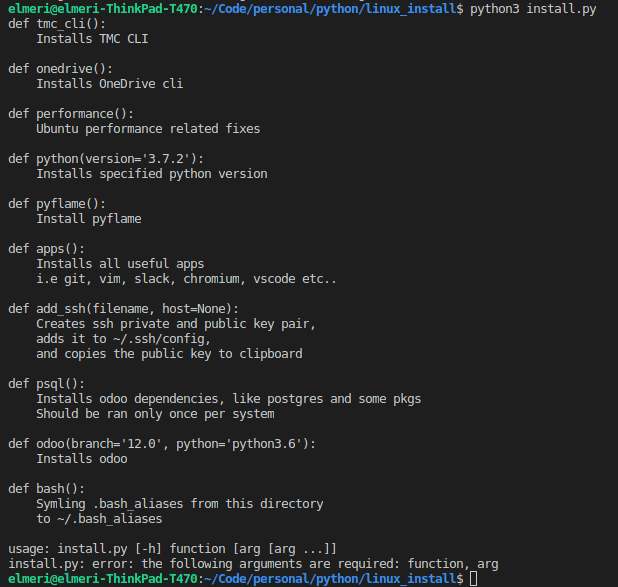
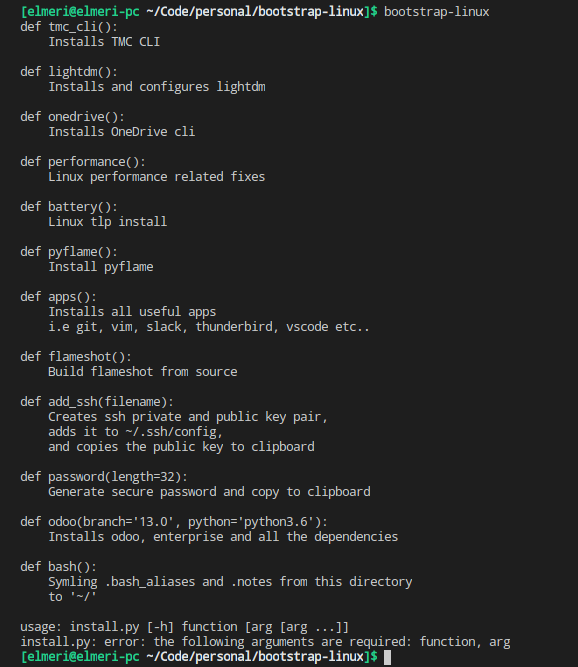
Fixed bash and odoo install

Changed region(s): [[0.0, 0.0, 0.9654, 1.0]]

diff --git a/install.py b/install.py
@@ -195,7 +195,7 @@ def password(length=32):
 def _get_odoo_path(branch='13.0', repo='odoo'):
     return _path(f'~/Code/work/odoo/{branch[:-2]}/{repo}')
 
-def _odoo_venv(branch='13.0', python='python3.6'):
+def _odoo_venv(branch='13.0'):
     '''Creates odoo venv
     '''
     os.makedirs(_path('~/.venv'), exist_ok=True)
@@ -203,13 +203,24 @@ def _odoo_venv(branch='13.0', python='python3.6'):
     odoo_path = _get_odoo_path(branch)
 
     if not os.path.isdir(_path('~/.venv/' + venv_name)):
-        _run([
-            'cd ~/.venv',
-            'python3 -m virtualenv -p {} {}'.format(python, venv_name),
-        ])
+        if float(branch) <= 10.0:
+            _run([
+                'cd ~/.venv',
+                'python2 -m virtualenv -p python2 {}'.format(venv_name),
+            ], dependencies=[
+                'sudo pacman -S --noconfirm python2',
+                'sudo pacman -S --noconfirm python2-virtualenv',
+            ])
+
+        else:
+            _run([
+                'cd ~/.venv',
+                'python3 -m venv {}'.format(venv_name),
+            ])
+
     _run([
-        '/home/elmeri/.venv/{}/bin/pip install -r {}/requirements.txt'.format(
-            venv_name, odoo_path),
+        'sed "/psycopg2/d" {}/requirements.txt | /home/elmeri/.venv/{}/bin/pip install -r /dev/stdin psycopg2'.format(
+            odoo_path, venv_name),
     ], dependencies=_lazyfunction(_odoo_deps, branch=branch))
 
 def _odoo_deps(branch='12.0'):
@@ -217,26 +228,16 @@ def _odoo_deps(branch='12.0'):
     '''
     if float(branch) < 12.0:
         _run([
-            'sudo pacman -S nodejs',
-            'sudo pacman -S libssl1.0-dev',
-            'sudo pacman -S nodejs-dev',
-            'sudo pacman -S node-gyp',
-            'sudo pacman -S npm',
-            'sudo npm install -g less',
+            'sudo pacman -S  --noconfirm nodejs-less',
         ])
 
-    if float(branch) <= 10.0:
-        _run([
-            'sudo pacman -S python-dev',
-            'sudo pacman -S libjpeg-dev',
-            'sudo pacman -S libjpeg8-dev',
-        ])
     _run([
-        'sudo pacman -S libxml2-dev',
-        'sudo pacman -S libxslt-dev',
-        'sudo pacman -S libevent-dev',
-        'sudo pacman -S libsasl2-dev',
-        'sudo pacman -S libldap2-dev',
+        # TODO: Test if needed on manjaro
+        # 'sudo pacman -S libxml2-dev',
+        # 'sudo pacman -S libxslt-dev',
+        # 'sudo pacman -S libevent-dev',
+        # 'sudo pacman -S libsasl2-dev',
+        # 'sudo pacman -S libldap2-dev',
 
         'sudo pacman -S postgresql',
     ])
@@ -248,11 +249,9 @@ def _odoo_deps(branch='12.0'):
         pass
 
 
-def odoo(branch='13.0', python='python3.6'):
+def odoo(branch='13.0'):
     '''Installs odoo, enterprise and all the dependencies
     '''
-    if float(branch) <= 10.0:
-        assert python == 'python2.7'
 
     odoo_path = _get_odoo_path(branch, repo='odoo')
 
@@ -268,7 +267,8 @@ def odoo(branch='13.0', python='python3.6'):
         f_write.write(
             data.format(odoo_version=branch[:-2])
         )
-    _odoo_venv(branch, python)
+
+    _odoo_venv(branch)
 
 
 def _get_odoo_source(repo='odoo', branch='13.0'):
@@ -348,9 +348,12 @@ def bash():
         except Exception as error:
             print(error)
 
-    _run([
-        "mv ~/.bashrc ~/.bashrc-backup",
-    ])
+    backup_path = _path('~/.bashrc-backup')
+    if os.path.isfile(backup_path):
+        _run([
+            f"mv ~/.bashrc {backup_path}",
+        ])
+
     symlink_home('.notes')
     symlink_home('.bash_aliases')
     symlink_home('.bashrc')
@@ -364,18 +367,20 @@ def _bash_complete(completion_iterable, str_index='1', arg=''):
     else:
         print([])
 
+LOCALS = locals()
 
-def main(local_functions):
+def main():
     if sys.version_info[0] < 3:
         print("Only supported in python 3")
         return -1
 
     import argparse
 
-    local_functions = _filter_locals(local_functions)
+    global LOCALS
+    LOCALS = _filter_locals(LOCALS)
 
     if len(sys.argv) == 1:
-        _print_functions(local_functions)
+        _print_functions(LOCALS)
 
     parser = argparse.ArgumentParser(description='Setup your Linux system')
 
@@ -389,10 +394,10 @@ def main(local_functions):
 
 
     if args.function == '_bash_complete':
-        _bash_complete(local_functions, *args.args)
+        _bash_complete(LOCALS, *args.args)
         return 0
 
-    func = local_functions[args.function]
+    func = LOCALS[args.function]
     with _quittable():
         func(*args.args)
 
@@ -400,4 +405,4 @@ def main(local_functions):
 
 
 if __name__ == '__main__':
-    sys.exit(main(locals()))
+    sys.exit(main())

diff --git a/setup.py b/setup.py
@@ -1,0 +1,14 @@
+
+from setuptools import setup
+
+setup(
+    name='bootstrap-linux',
+    py_modules=['install'],
+    description='Wrapper to install default apps on Linux enviroments',
+    license='GNU GPLv3',
+    author='Elmeri Niemela',
+    version='1.0',
+    include_package_data=True,
+    install_requires=[],
+    entry_points={'console_scripts': ['bootstrap-linux = install:main',],},
+)

diff --git a/README.md b/README.md
@@ -2,4 +2,15 @@
 
 I Reinstall my system regularly, so having apps and bash scripts in version control is very useful.
 
+Install instructions:
+
+* `git clone <this repo>`
+* `cd <this repo>`
+* `pip install -e .`
+
+Usage instructions:
+
+* `bootstrap-linux` <-- this will start the CLI-interface and print available functions
+
+
 ![alt text](https://raw.githubusercontent.com/thecodebasesite/bootstrap-linux/master/bootstrap-linux.png)
